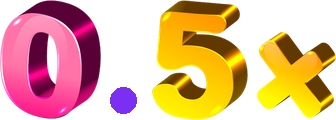
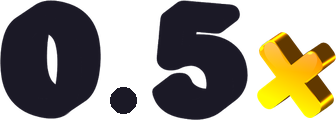
feat: 홈 전면 실이미지 — 하단내비 4종(활성 보라/비활성 그레이) + 번개 배지 + 차시별 실사 원형 6종 + 재생속도 숫자 검정 재합성

diff --git a/src/screens/HomeScreen/index.tsx b/src/screens/HomeScreen/index.tsx
@@ -1,4 +1,14 @@
 import React from 'react';
+
+// 차시별 실사 — 타일 로테이션 대신 차시 내용에 맞는 사진
+const SESSION_PHOTOS: any[] = [
+  require('../../../assets/SetWordbookEvalStage/nara.png'),        // 1차시 나라와 국적 소개
+  require('../../../assets/SetWordbookEvalStage/6_employee.png'),  // 2차시 직업 묻고 답하기
+  require('../../../assets/SetWordbookEvalStage/1_student.png'),   // 3차시 국적 문장 만들기(필기)
+  require('../../../assets/SetWordbookEvalStage/2_teacher.png'),   // 4차시
+  require('../../../assets/classroom.jpg'),                        // 5차시
+  require('../../../assets/SetWordbookEvalStage/preson.png'),      // 6차시
+];
 import { ThemedGlyph } from '../../components/ThemedGlyph';
 import { useState, useRef, useEffect } from 'react';
 import {
@@ -75,7 +85,11 @@ export function HomeScreen({ sessions, setView, onStartSession }: Props) {
           </TouchableOpacity>
         </View>
         <View style={styles.boltBadge}>
-          <Text style={styles.boltIcon}>⚡</Text>
+          {brandCrest ? (
+            <Image source={require('../../../assets/themes/malhaeboka/icon-bolt.png')} style={{ width: 22, height: 22 }} resizeMode="contain" />
+          ) : (
+            <Text style={styles.boltIcon}>⚡</Text>
+          )}
           <Text style={styles.boltText}>0</Text>
         </View>
       </View>
@@ -200,9 +214,9 @@ export function HomeScreen({ sessions, setView, onStartSession }: Props) {
                     <MbNowPulse active={!!showNow}>
                     <View style={[styles.dot, { backgroundColor: '#FFFFFF', borderWidth: 2, borderColor: '#ECE7FA' }, showNow ? { borderColor: '#B9A5F5', borderWidth: 2 } : null]}>
                       <Image
-                        source={brandRowIcons[idx % brandRowIcons.length]}
-                        style={{ width: 34, height: 34, borderRadius: 9, marginTop: 1, opacity: unlocked ? 1 : 0.38 }}
-                        resizeMode="contain"
+                        source={SESSION_PHOTOS[idx % SESSION_PHOTOS.length]}
+                        style={{ width: 40, height: 40, borderRadius: 20, opacity: unlocked ? 1 : 0.38 }}
+                        resizeMode="cover"
                       />
                       {completed ? (
                         <View style={{ position: 'absolute', right: 0, bottom: 0, width: 16, height: 16, borderRadius: 8, backgroundColor: activeTheme.colors.primary, alignItems: 'center', justifyContent: 'center' }}>

diff --git a/src/theme/themeAssets.ts b/src/theme/themeAssets.ts
@@ -52,10 +52,10 @@ export const THEME_ASSETS: Record<string, ThemeAssets> = {
     // 말해보카 하단 내비 글리프(어휘·리스닝·리그·프리미엄)를 우리 탭에 대응
     // 하단 내비 — 상용 수준 선명도를 위해 벡터 스트로크로 (활성 보라 / 비활성 회색)
     navIcons: {
-      home: { on: { uri: icon('home', '#7150F0', 24, 2.1) }, off: { uri: icon('home', '#A5A1B8', 24, 2) } },
-      report: { on: { uri: icon('chart', '#7150F0', 24, 2.1) }, off: { uri: icon('chart', '#A5A1B8', 24, 2) } },
-      'ai-talk': { on: { uri: icon('headphones', '#7150F0', 24, 2.1) }, off: { uri: icon('headphones', '#A5A1B8', 24, 2) } },
-      'my-info': { on: { uri: icon('crown', '#7150F0', 24, 2.1) }, off: { uri: icon('crown', '#A5A1B8', 24, 2) } },
+      home: { on: require('../../assets/themes/malhaeboka/nav-home-on.png'), off: require('../../assets/themes/malhaeboka/nav-home-off.png') },
+      report: { on: require('../../assets/themes/malhaeboka/nav-report-on.png'), off: require('../../assets/themes/malhaeboka/nav-report-off.png') },
+      'ai-talk': { on: require('../../assets/themes/malhaeboka/nav-chat-on.png'), off: require('../../assets/themes/malhaeboka/nav-chat-off.png') },
+      'my-info': { on: require('../../assets/themes/malhaeboka/nav-people-on.png'), off: require('../../assets/themes/malhaeboka/nav-people-off.png') },
     },
     crest: require('../../assets/themes/malhaeboka/char-fish.png'),
     glyphs: {

diff --git a/src/components/BottomNav.tsx b/src/components/BottomNav.tsx
@@ -34,7 +34,7 @@ export function BottomNav({ active, setView }: BottomNavProps) {
             {navIcons?.[item.key] ? (
               <Image
                 source={active === item.key ? navIcons[item.key].on : navIcons[item.key].off}
-                style={{ width: 24, height: 21 }}
+                style={{ width: 26, height: 26 }}
                 resizeMode="contain"
               />
             ) : (
